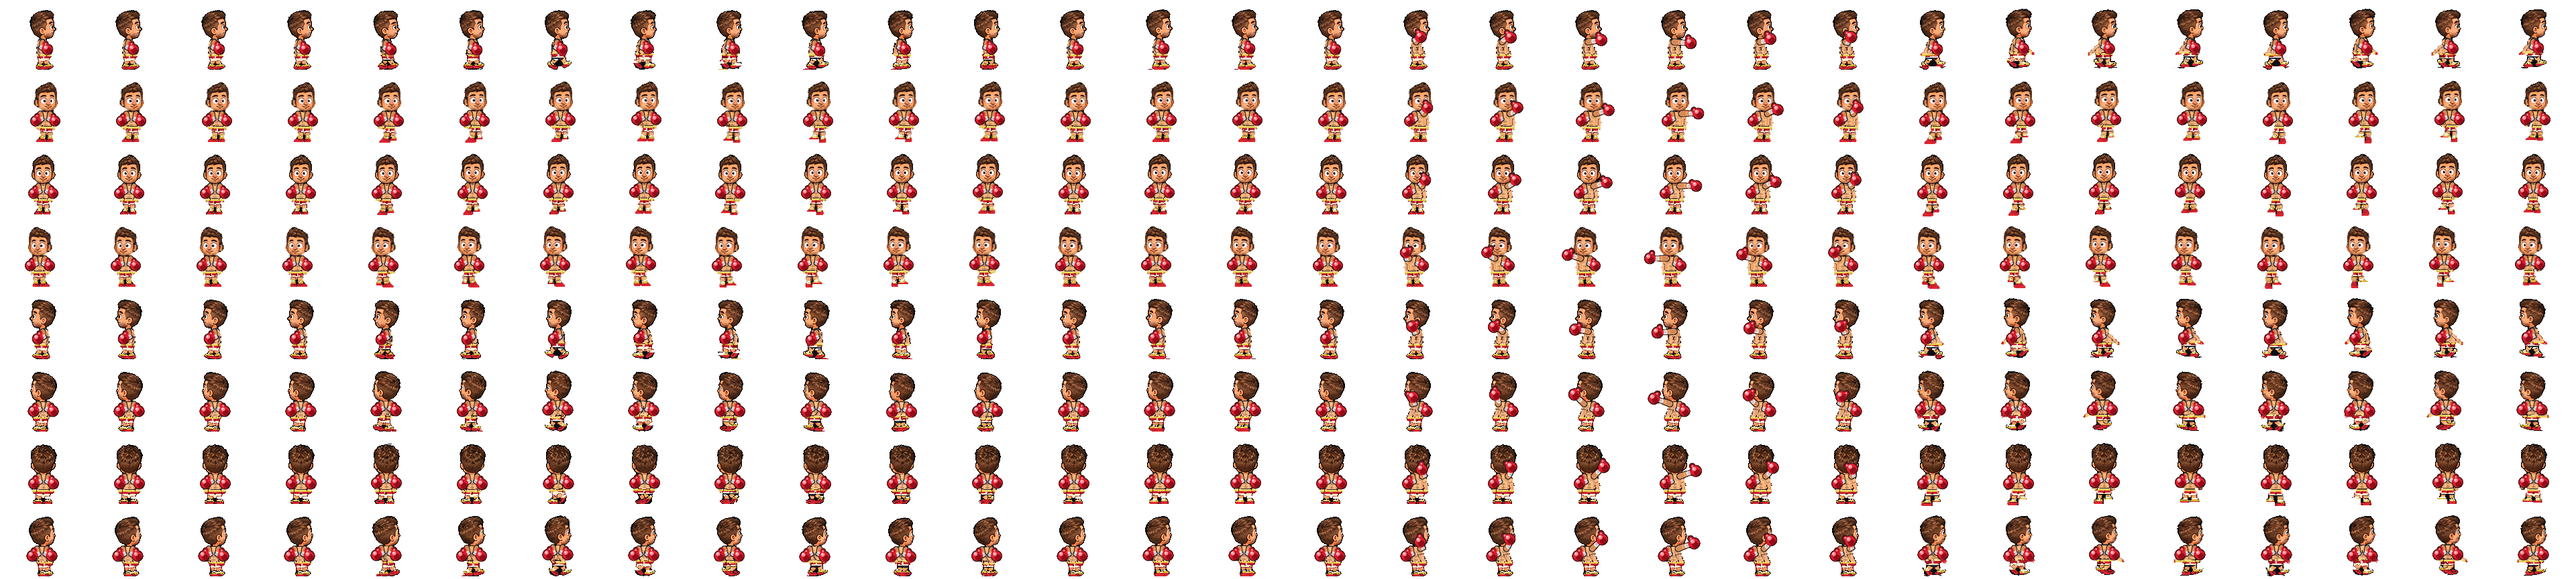
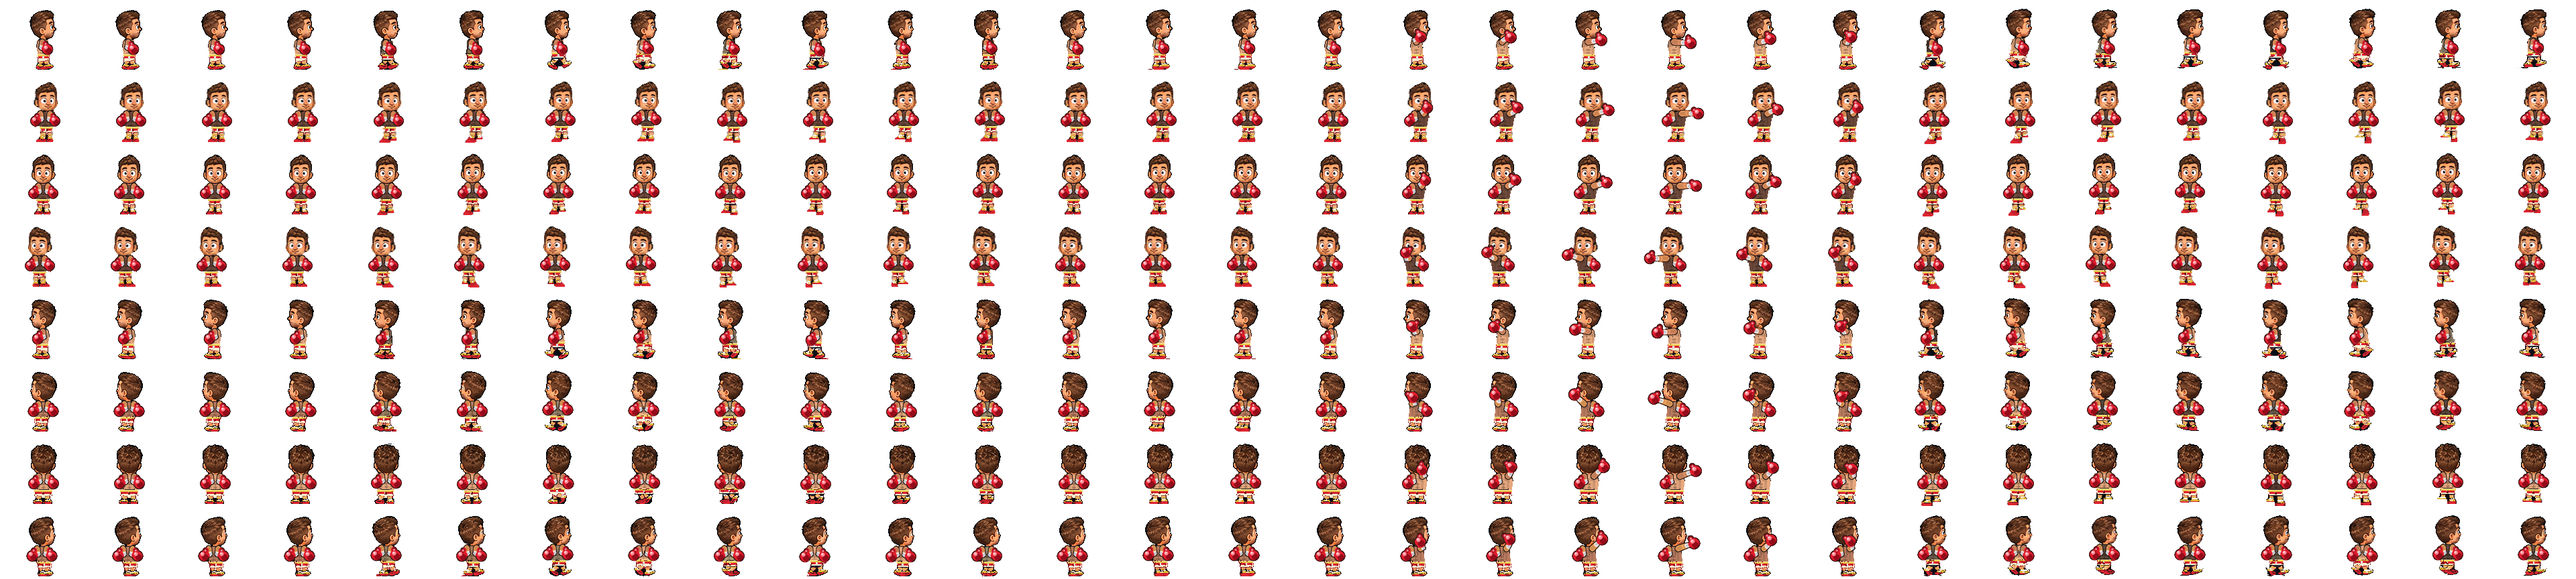
Boxer James: erase base arms; keep only complete glove arms
Fully strip James's hanging arms/hands before recolor, fill torso/shorts
holes, draw single shaded shoulder→glove arms (near-only on sides), and
fail consistency if hip/side skin sits outside the waistband glove-arm mask.

diff --git a/phaser-tag-client/tools/make_boxer_skin.py b/phaser-tag-client/tools/make_boxer_skin.py
@@ -4,17 +4,18 @@ from the base kid sheet.
 
 Composite onto James's real base frame (do NOT redraw the body):
 
-  * James's face, head, neck, torso silhouette, arms, and legs stay the base;
+  * James's face, head, neck, torso silhouette, and legs stay the base;
+  * hanging base arms/hands are fully erased (filled with torso/shorts/bg);
   * tee → bare chest with light pec/abs shading on his real skin tone;
   * navy shorts → shiny red boxing trunks with a gold/white waistband that
     sits ON the hips (same width as the torso), gold side trim, mid-thigh;
   * shoes → red / white / gold high-tops with laces (same footprint);
-  * glossy RED boxing gloves (~½ head width) with white cuffs. Idle / walk /
-    breathe / run: high-ish guard at chest/shoulder height so the whole face
-    stays visible; side views show the near glove only;
-  * tag is a 6-frame JAB: near arm strips, then a shaded James-thick arm with
-    a big glove snaps forward and retracts. Far glove stays in guard.
-    NW mirrors NE.
+  * glossy RED boxing gloves (~½ head width) with white cuffs on a single
+    complete shaded arm from each shoulder. Idle / walk / breathe / run:
+    high-ish guard at chest height so the whole face stays visible; side
+    views show the near arm only;
+  * tag is a 6-frame JAB: shaded near arm + glove snaps forward and
+    retracts. Far glove stays in guard. NW mirrors NE.
 
 Requires: Python 3 + Pillow + numpy.  Usage:
     python3 tools/make_boxer_skin.py [--preview /tmp/boxer_preview.png]
@@ -544,9 +545,9 @@ def glove_parts(sh, elbow, hand, skin, gr, jabbing=False):
     seam_a = (hand[0] + nx * (gr * 0.42), hand[1] + ny * (gr * 0.28))
     seam_b = (thumb[0] - nx * (tr * 0.25), thumb[1] - ny * (tr * 0.25))
     if jabbing:
-        u0, u1, f0, f1 = 5.0, 4.5, 4.3, 3.8
+        u0, u1, f0, f1 = 5.4, 4.8, 4.6, 4.0
     else:
-        u0, u1, f0, f1 = 4.4, 3.9, 3.7, 3.3
+        u0, u1, f0, f1 = 5.0, 4.4, 4.2, 3.7
     skin2 = tuple(int(v * 0.86) for v in skin)
     return [
         (capsule_fn(sh, u0, elbow, u1), skin),
@@ -603,53 +604,113 @@ def bounce_of(anim, col, meta):
     return 1.0 * math.sin(k * math.pi / 2.0)
 
 
-def trim_lateral_arms(f, g, sides):
-    """Erase only hanging-arm pixels that stick OUTSIDE the torso silhouette.
-    Never touch the torso core, shorts, or legs — James's body stays intact."""
+def erase_base_arms(f, g):
+    """Fully erase James's hanging base arms/hands BEFORE recolor.
+
+    Detect arms while the tee still separates them from the torso, clear
+    anything outside a chest→hip silhouette to transparency, and fill only the
+    interior (hand-over-shorts / arm-over-tee) with tee or shorts colour so
+    recolor still sees cloth. Legs below the hem are never touched.
+    """
     h, w = f.shape[:2]
     yy, xx = np.mgrid[0:h, 0:w]
     out = f.copy()
-    ai = alpha_mask(out)
     face = (yy <= g.neck + 1) & skin_mask(out)
-    arms, _ = arms_and_hands(out, g, face)
-    rm = np.zeros_like(arms)
-    for s in sides:
-        rm |= arm_comps_on(arms, g, 'S', s)  # side filter only; direction unused for L/R
-    # Build per-row torso x-span from opaque non-arm rows near mid-torso, then
-    # erase arm pixels outside that span (true hanging arms / hands only).
+    arms, hands = arms_and_hands(out, g, face)
+    rm = arms | hands
+    ai = alpha_mask(out)
+    rm = grow(rm, ai, 1) & (yy > g.neck + 2) & (yy < int(g.hem) - 1)
+    cleaned = np.zeros_like(rm)
+    for comp in components8(rm):
+        ys = np.nonzero(comp)[0]
+        if len(ys) and ys.mean() < g.hem - 4:
+            cleaned |= comp
+    rm = cleaned
+    keep = ai & ~rm
+
+    chest_spans, hip_spans, pre_hip = [], [], []
+    for y in range(int(g.neck) + 3, int(g.neck) + 12):
+        xs = np.nonzero(keep[y])[0]
+        if len(xs) >= 6:
+            chest_spans.append((int(xs.min()), int(xs.max())))
+    for y in range(int(g.hem) - 6, int(g.hem) - 1):
+        xs = np.nonzero(keep[y])[0]
+        if len(xs) >= 6:
+            hip_spans.append((int(xs.min()), int(xs.max())))
+        xs = np.nonzero(ai[y])[0]
+        if len(xs) >= 8:
+            pre_hip.append((int(xs.min()), int(xs.max())))
+
+    if chest_spans:
+        cL = float(np.median([s[0] for s in chest_spans]))
+        cR = float(np.median([s[1] for s in chest_spans]))
+    else:
+        cL, cR = w * 0.35, w * 0.65
+    if hip_spans:
+        hL = float(np.median([s[0] for s in hip_spans]))
+        hR = float(np.median([s[1] for s in hip_spans]))
+    else:
+        hL, hR = cL - 2, cR + 2
+    # Hands often occlude shorts sides — if keep-hip collapsed, restore toward
+    # the pre-erase hip span (inset 1px) so trunks keep torso width.
+    if pre_hip and (hR - hL) < (cR - cL) + 2:
+        pL = float(np.median([s[0] for s in pre_hip]))
+        pR = float(np.median([s[1] for s in pre_hip]))
+        hL = min(hL, pL + 1)
+        hR = max(hR, pR - 1)
+
+    y_c = int(g.neck) + 7
+    y_h = int(g.hem) - 3
     L = np.full(h, np.nan)
     R = np.full(h, np.nan)
-    for y in range(int(g.neck) + 4, int(g.hem) - 1):
-        xs = np.nonzero(ai[y] & ~arms[y])[0]
-        if len(xs) < 4:
-            xs = np.nonzero(ai[y])[0]
-        if len(xs) >= 4:
-            L[y] = xs.min() + 1
-            R[y] = xs.max() - 1
-    ys = np.arange(h)
-    for E in (L, R):
-        ok = ~np.isnan(E)
-        if ok.sum() >= 2:
-            E[:] = np.interp(ys, ys[ok], E[ok])
-    lateral = np.zeros_like(ai)
-    for y in range(int(g.neck) + 3, int(g.hem)):
-        if np.isnan(L[y]) or np.isnan(R[y]):
+    for y in range(int(g.neck) + 2, int(g.hem) + 1):
+        t = 0.0 if y_h == y_c else float(np.clip((y - y_c) / (y_h - y_c), 0, 1))
+        L[y] = cL + t * (hL - cL)
+        R[y] = cR + t * (hR - cR)
+
+    waist = int(g.hem - 9)
+    sk = skin_mask(out)
+    tee_band = keep & ~sk & (yy > g.neck + 4) & (yy < waist)
+    tee_c = tuple(int(v) for v in np.median(out[tee_band][:, :3], 0)) if tee_band.any() else (90, 90, 95)
+    shorts_band = keep & ~sk & (yy >= waist) & (yy < g.hem)
+    sh_c = tuple(int(v) for v in np.median(out[shorts_band][:, :3], 0)) if shorts_band.any() else (40, 40, 55)
+
+    fill = np.zeros_like(rm)
+    for y in range(int(g.neck) + 2, int(g.hem)):
+        if np.isnan(L[y]):
             continue
         lo, hi = int(round(L[y])), int(round(R[y]))
-        row = arms[y].copy()
-        row[lo:hi + 1] = False  # keep torso core
-        lateral[y] |= row
-    # also drop any leftover hand blobs below mid-torso that sit outside hips
-    lateral |= rm & ((xx < np.nanmin(L)) | (xx > np.nanmax(R)))
-    lateral &= yy < int(g.hem) - 1
-    lateral &= yy > int(g.neck) + 2
-    out[lateral] = 0
+        inside = rm[y].copy()
+        inside[:lo] = False
+        inside[hi + 1:] = False
+        fill[y] |= inside
+    clear = rm & ~fill
+    out[clear] = 0
+    chest_fill = fill & (yy < waist)
+    trunk_fill = fill & (yy >= waist)
+    out[chest_fill, :3] = tee_c
+    out[chest_fill, 3] = 255
+    out[trunk_fill, :3] = sh_c
+    out[trunk_fill, 3] = 255
+
+    ai2 = alpha_mask(out)
+    for y in range(int(g.neck) + 2, int(g.hem)):
+        if np.isnan(L[y]):
+            continue
+        lo, hi = int(round(L[y])), int(round(R[y]))
+        hole = np.zeros(w, bool)
+        hole[lo:hi + 1] = True
+        hole &= ~ai2[y]
+        if hole.any():
+            col = tee_c if y < waist else sh_c
+            out[y, hole, :3] = col
+            out[y, hole, 3] = 255
     return out
 
 
 def boxify(frame, direction, anim, col, meta):
-    """Composite Boxer onto James: recolor tee/shorts/shoes in place, trim only
-    lateral hanging arms, then draw guard/jab gloves. Body is never redrawn."""
+    """Composite Boxer onto James: erase base arms, recolor tee/shorts/shoes,
+    then draw complete shoulder→glove arms. Body silhouette is never redrawn."""
     f = pad_frame(frame)
     a = alpha_mask(f)
     if not a.any():
@@ -663,22 +724,21 @@ def boxify(frame, direction, anim, col, meta):
     side = TAG_SIDE[direction]
     bounce = bounce_of(anim, col, meta)
 
-    # 1) Recolor James in place FIRST (tee→chest, navy→trunks+gold waistband,
-    #    shoes→high-tops). Legs, face, silhouette stay his.
+    # 1) Start from James (idle body for tag so the jab pose is stable).
     if tag:
         idle = pad_frame(meta["_base_idle"][direction])
-        gi = Geometry(idle)
         body = idle
-        g = gi
+        g = Geometry(idle)
     else:
         body = f
 
-    rc, waist = recolor(body, g)
-    g = Geometry(rc)
+    # 2) Fully erase hanging base arms/hands WHILE tee still separates them
+    #    from the torso; fill torso/shorts holes so recolor sees cloth.
+    body = erase_base_arms(body, Geometry(body))
+    g = Geometry(body)
 
-    # 2) Trim only lateral hanging arms (outside torso). Core body untouched.
-    sides = [side] if (tag or direction in PROFILE) else [1, -1]
-    rc = trim_lateral_arms(rc, g, sides)
+    # 3) Recolor in place (tee→chest, navy→trunks+gold waistband, shoes→high-tops).
+    rc, waist = recolor(body, g)
     g = Geometry(rc)
 
     skin = skin_rgb_of(rc)

diff --git a/phaser-tag-client/tools/check_boxer_consistency.py b/phaser-tag-client/tools/check_boxer_consistency.py
@@ -1,7 +1,8 @@
 """Boxer James consistency: sheet ≤4096; every frame one solid figure; red
 gloves present in every frame; gold waistband present; torso width stable
 across standing frames within a direction; head ratio chibi-like; NW tag
-mirrors NE (jab extends opposite ways)."""
+mirrors NE (jab extends opposite ways); no hanging base-arm skin outside
+the glove-arm masks at hip/side level."""
 import json
 from pathlib import Path
 
@@ -201,6 +202,69 @@ for r, d in enumerate(m["directions"]):
         n = int(bad_px.sum())
         if n > 2:
             print(f"{d} col {c}: {n} black/near-black trunk pixels (want red/gold/white only)")
+            bad += 1
+
+
+# No hanging base-arm skin outside the glove-arm / torso masks at hip level.
+# Hanging hands sit beside the gold waistband; drawn glove arms stay above it.
+def is_skin_arm(rgb, a):
+    """Skin tone that is not glove / gold / near-white cloth."""
+    r, g, b = rgb[..., 0], rgb[..., 1], rgb[..., 2]
+    lum = (r + g + b) / 3.0
+    glove = is_glove(rgb, a)
+    gold = (r > 180) & (g > 140) & (b < 140) & (r - b > 60)
+    white = (lum >= 160) | ((r > 180) & (g > 180) & (b > 170))
+    return (
+        (a > 100) & (r > 140) & (r > b + 20) & (r > g + 8) & (g > 70) & (b > 50)
+        & ~glove & ~gold & ~white
+    )
+
+
+pad = m["baselineY"] - 96
+for r, d in enumerate(m["directions"]):
+    for c in range(im.shape[1] // fw):
+        f = im[r * fh:(r + 1) * fh, c * fw:(c + 1) * fw]
+        a = f[..., 3] >= 200
+        if not a.any():
+            continue
+        rgb = f[..., :3].astype(int)
+        al = f[..., 3]
+        skin = is_skin_arm(rgb, al)
+        glove = is_glove(rgb, al)
+        rr, gg, bb = rgb[..., 0], rgb[..., 1], rgb[..., 2]
+        gold_px = (al > 100) & (rr > 180) & (gg > 140) & (bb < 140) & (rr - bb > 60)
+        # Wide gold waistband row (skip thin shoe-gold scraps).
+        wb = None
+        for y in range(pad + 70, pad + 84):
+            xs = np.nonzero(gold_px[y] & a[y])[0]
+            if len(xs) >= 8:
+                wb = (y, int(xs.min()), int(xs.max()))
+                break
+        if wb is None:
+            spans = []
+            for y in range(pad + 58, pad + 66):
+                body = a[y] & ~glove[y]
+                xs = np.nonzero(body)[0]
+                if len(xs) >= 8:
+                    spans.append((int(xs.min()), int(xs.max())))
+            if not spans:
+                continue
+            wb_lo = int(np.median([s[0] for s in spans]))
+            wb_hi = int(np.median([s[1] for s in spans]))
+            y0 = pad + 74
+        else:
+            y0, wb_lo, wb_hi = wb
+        hip_y1 = min(y0 + 8, pad + 86, fh)
+        stray = 0
+        for y in range(y0, hip_y1):
+            sk = skin[y] & ~glove[y]
+            if not sk.any():
+                continue
+            xs = np.nonzero(sk)[0]
+            outside = xs[(xs < wb_lo - 2) | (xs > wb_hi + 2)]
+            stray += len(outside)
+        if stray > 3:
+            print(f"{d} col {c}: {stray} stray skin-arm px outside glove-arm masks (hip/side)")
             bad += 1
 
 print("glove px median", {d: int(np.median(v)) for d, v in glove_counts.items()})
